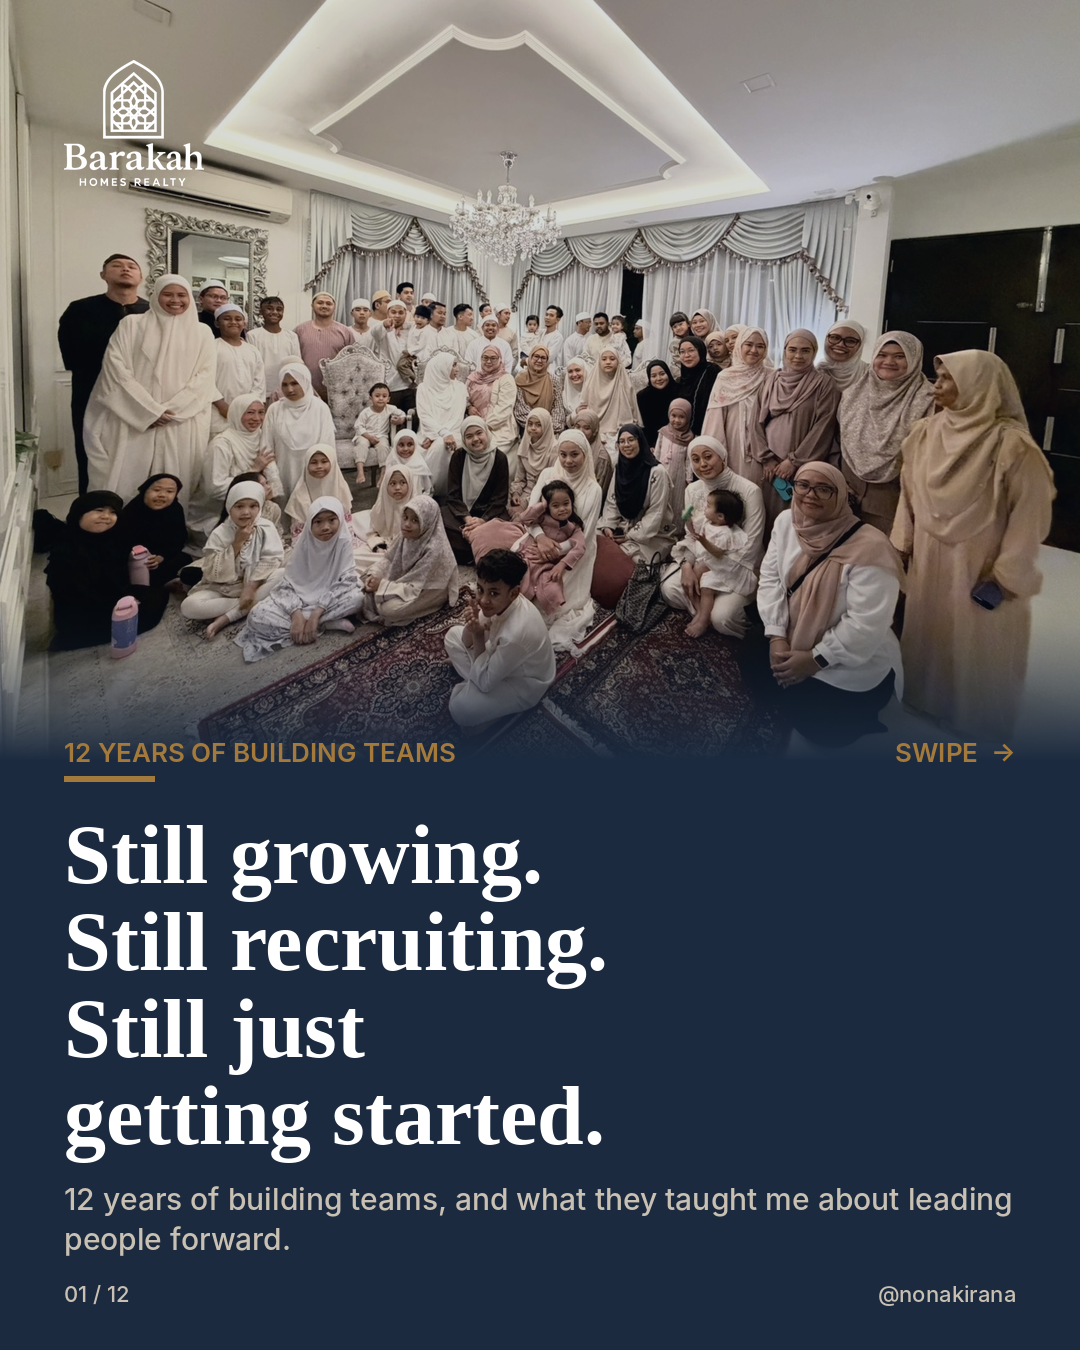
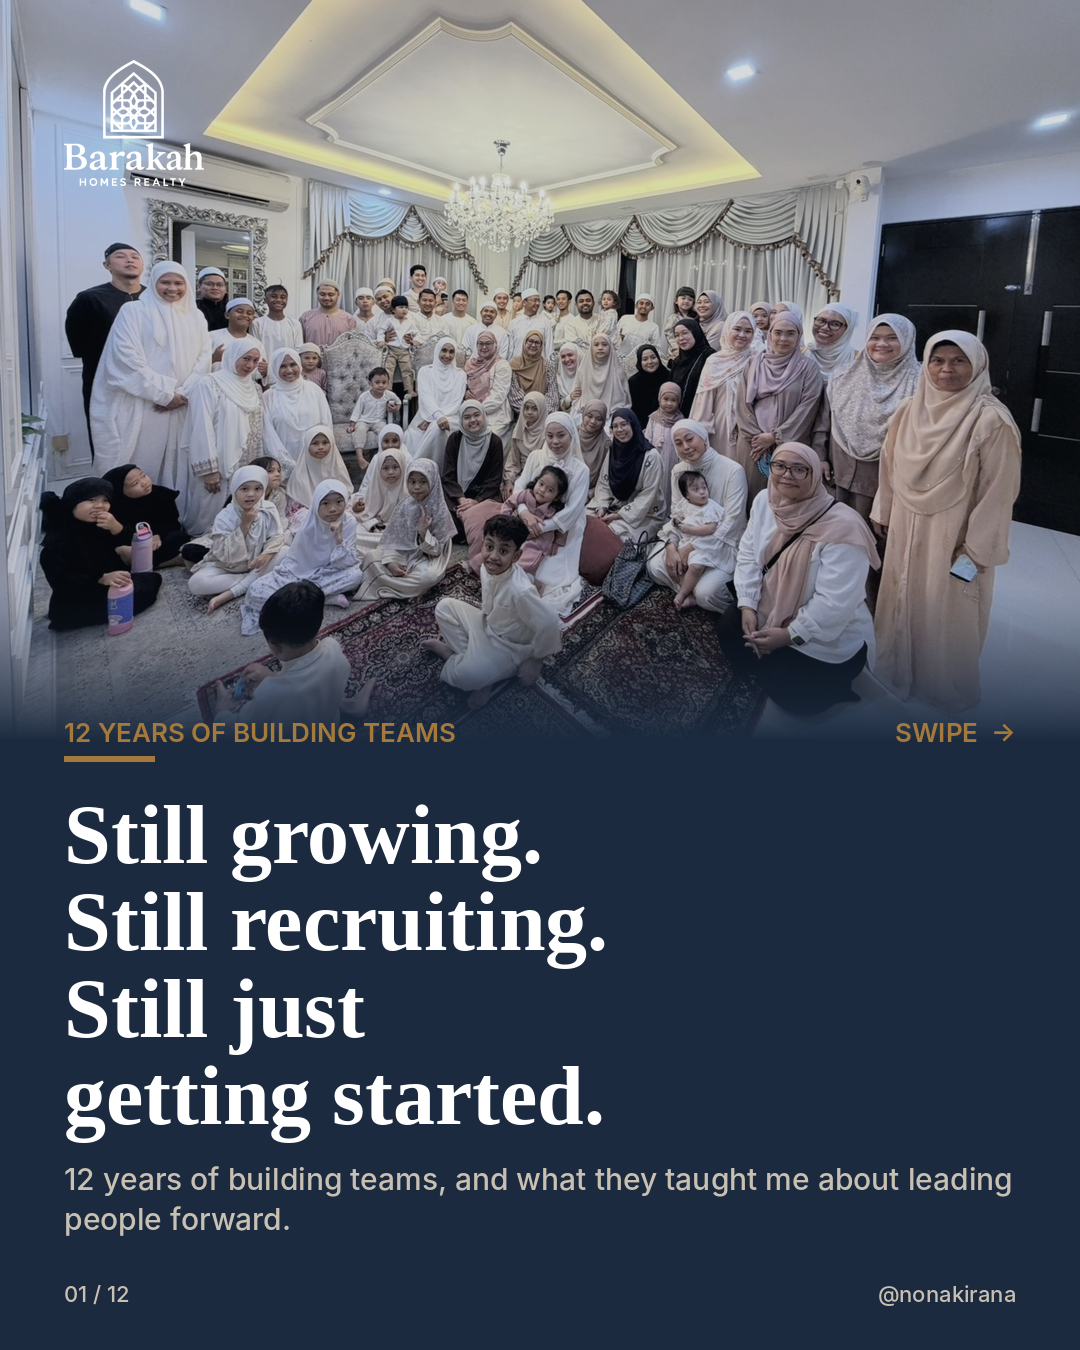
Swap cover for the wider gathering photo
Claude-Session: https://claude.ai/code/session_016kRuLdfEYNqBubZ7ARvdxi

diff --git a/recruitment-carousel/make_carousel.py b/recruitment-carousel/make_carousel.py
@@ -143,9 +143,8 @@ def text_slide(n, kicker, headline, body=None, bg=NAVY, hl_size=84, photo_strip=
 
 # 01 — cover: full-width photo on top, fading into navy, text below
 img = Image.new("RGBA", (W, H), NAVY + (255,))
-ph = load("gathering.jpg").convert("RGB")
-ph = ph.resize((W, round(ph.height * W / ph.width)), Image.LANCZOS)   # full width, nothing cropped
-PH = ph.height
+PH = 740
+ph = cover_crop(load("gathering.jpg"), W, PH, (0.5, 0.9))   # full width; trims only the ceiling
 img.paste(ph, (0, 0))
 fade = Image.new("RGBA", (W, H), NAVY + (0,))
 fd = ImageDraw.Draw(fade)
